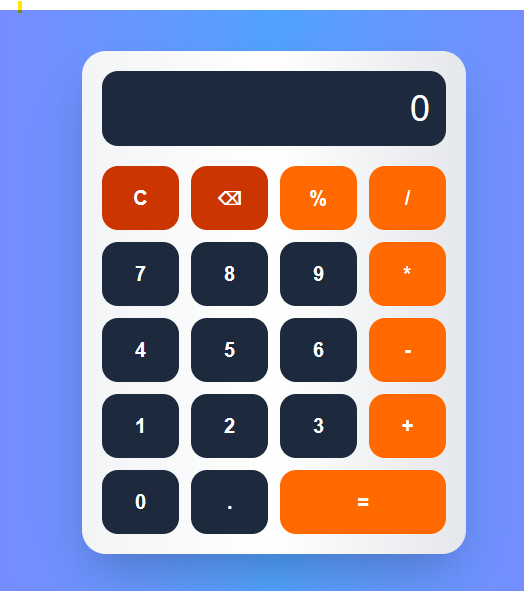
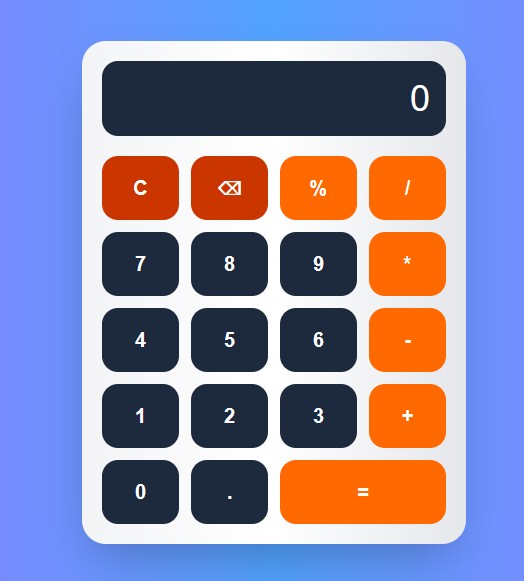
initial project

diff --git a/README.md b/README.md
@@ -7,9 +7,10 @@ This project performs basic arithmetic operations with a clean and responsive UI
 
 
 
-## 📸 Preview
+## Screenshot
 
 ![calculator](public/image.png)
+
 ---
 
 ##  Features